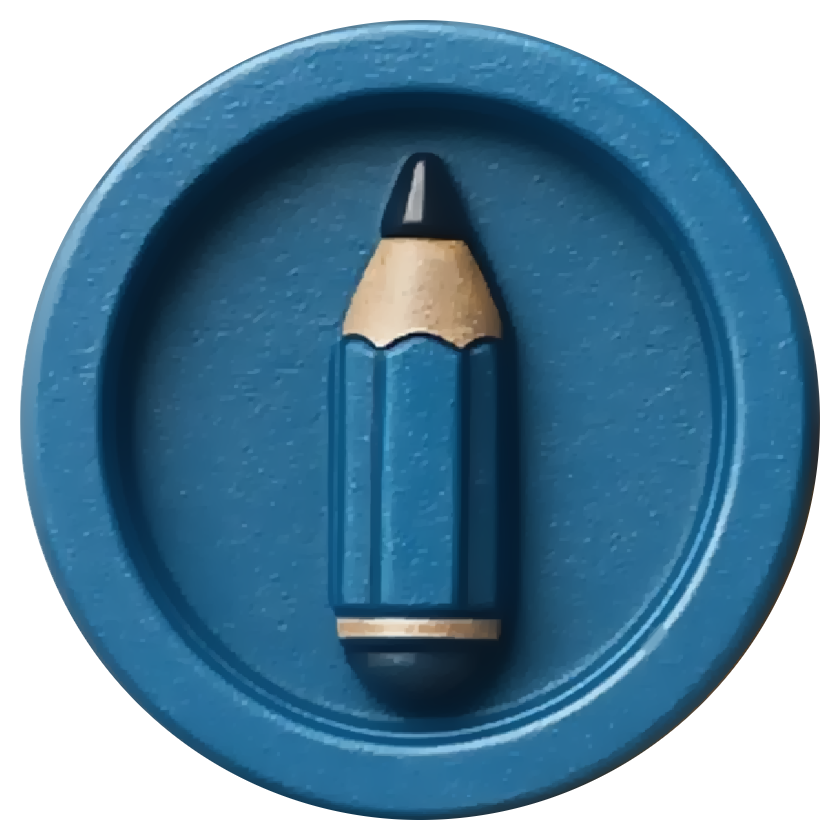
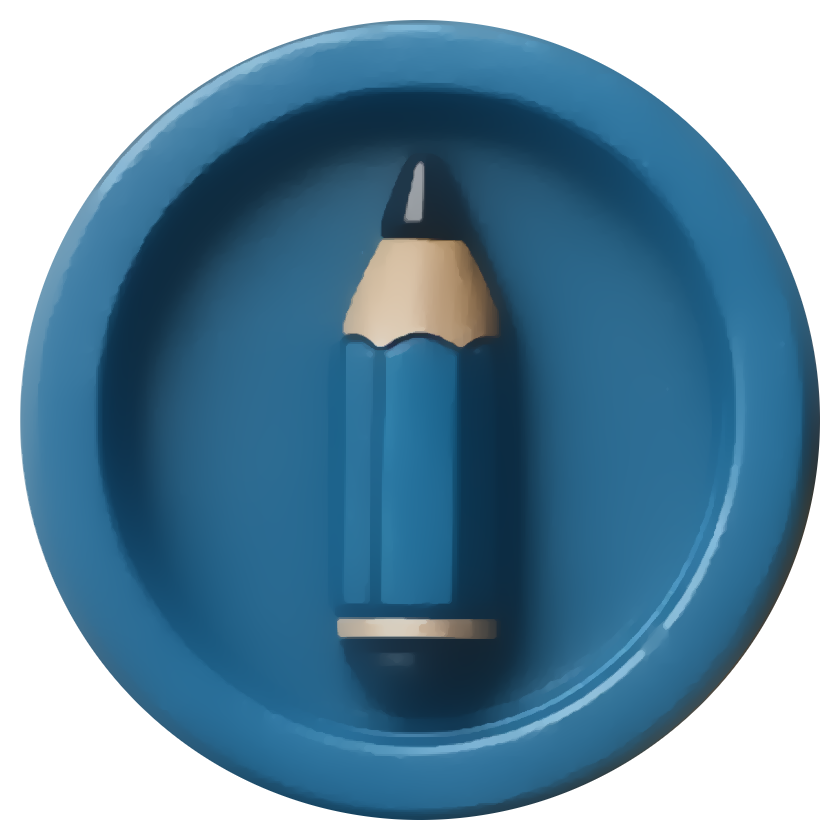
Monedele: granulatia scoasa complet din imaginea coapta
Filtrul de dinainte lasa inca o urma fina de "coaja de portocala". Acum trei treceri
de domain transform, din ce in ce mai fine (sigma_r .35 / .25 / .15), plus un median
5px la final: emailul e plat, muchiile inelului si ale desenului raman.

diff --git a/assets-src/coins-original/smooth.py b/assets-src/coins-original/smooth.py
@@ -1,16 +1,18 @@
-"""Netezeste granulatia 'coaja de portocala' coapta in sprite-urile monedelor, pastrand muchiile
-(inelul, desenul). Filtru edge-preserving (domain transform) in doua treceri, doar pe culoare;
-alfa ramane neatins. Sursele originale stau in assets-src/coins-original."""
+"""Scoate complet granulatia 'coaja de portocala' coapta in sprite-urile monedelor, pastrand
+muchiile (inelul, desenul). Trei treceri de filtru edge-preserving (domain transform), din ce
+in ce mai fine, apoi un median care curata ce a mai ramas. Doar pe culoare; alfa ramane.
+Sursele originale stau in assets-src/coins-original."""
 import cv2, numpy as np, os
 src='D:/Teo/PNL/Site-uri/Olimpiada Liceelor/assets-src/coins-original'
 dst='D:/Teo/PNL/Site-uri/Olimpiada Liceelor/app/public/img/coins'
+ep=lambda x,s,r: cv2.edgePreservingFilter(x, flags=cv2.RECURS_FILTER, sigma_s=s, sigma_r=r)
 for f in sorted(os.listdir(src)):
     if not f.endswith('.png') or 'normal' in f: continue
     im=cv2.imread(os.path.join(src,f), cv2.IMREAD_UNCHANGED)
     bgr, a = im[:,:,:3], im[:,:,3]
     # pixelii transparenti sunt negri: ii umplem cu vecinii, altfel filtrul trage negru in inel
     bgr=cv2.inpaint(bgr, (a<8).astype(np.uint8), 3, cv2.INPAINT_TELEA)
-    out=cv2.edgePreservingFilter(bgr, flags=cv2.RECURS_FILTER, sigma_s=40, sigma_r=0.20)
-    out=cv2.edgePreservingFilter(out, flags=cv2.RECURS_FILTER, sigma_s=30, sigma_r=0.12)
+    out=ep(ep(ep(bgr,60,0.35),40,0.25),30,0.15)
+    out=cv2.medianBlur(out,5)
     cv2.imwrite(os.path.join(dst,f), np.dstack([out,a]), [cv2.IMWRITE_PNG_COMPRESSION,9])
     print(f, os.path.getsize(os.path.join(dst,f)))
